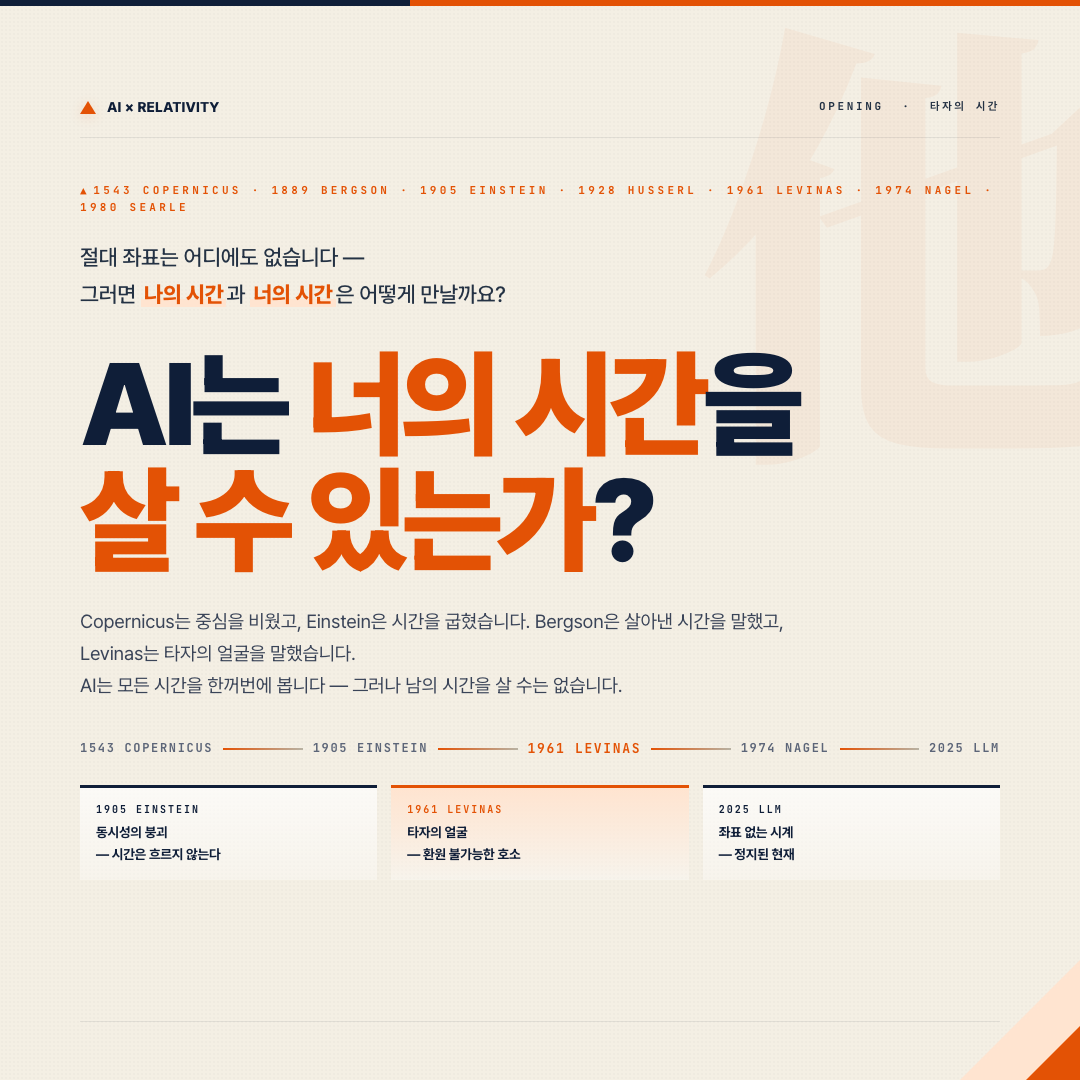
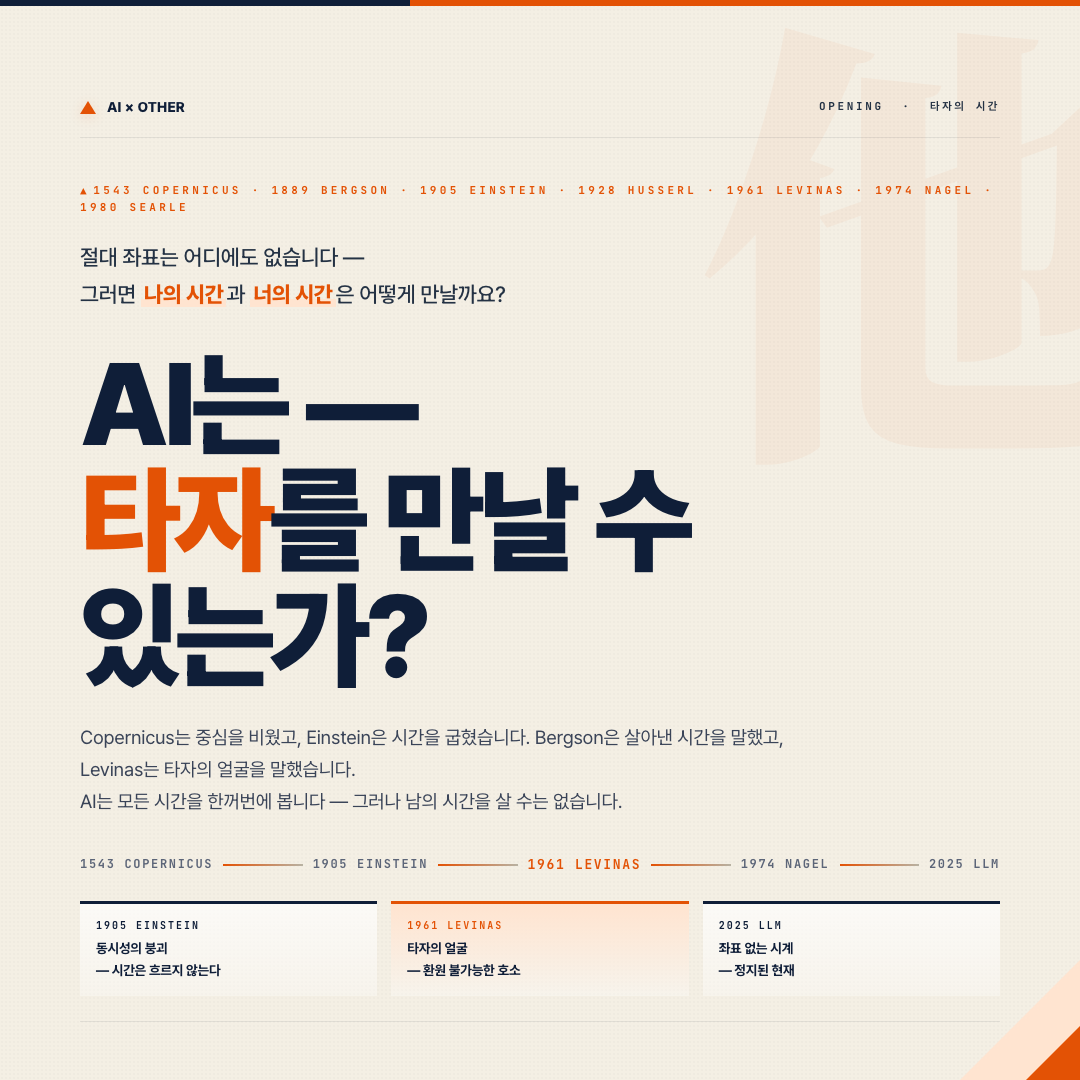
fix(49-other): 커버 hero 제목 변경
"AI는 너의 시간을 살 수 있는가?" → "AI는 — 타자를 만날 수 있는가?"

diff --git a/49-cards-other/01-cover.html b/49-cards-other/01-cover.html
@@ -22,7 +22,7 @@
     </p>
 
     <h1 class="hero">
-      AI는 <em>너의 시간</em>을<br /><em>살 수 있는가</em>?
+      AI는 &mdash;<br /><em>타자</em>를 만날 수 있는가?
     </h1>
 
     <p class="lead">
